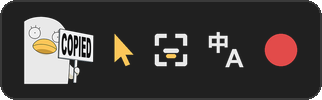
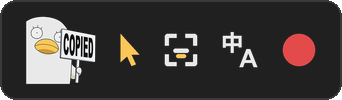
悬浮条图标间距从 10 加到 12

diff --git a/subsnap/bar.py b/subsnap/bar.py
@@ -146,7 +146,7 @@ class Bar:
 
         # 从左到右：伊丽莎白、四个按钮
         # 每个图形按自己的实际宽度裁掉空白、两边各留 pad：相邻图形之间看起来的距离都是 2*pad
-        self.pad = round(5 * self.scale)
+        self.pad = round(6 * self.scale)  # 相邻图形间距 12（Kr 2026-11-18 从 10 加到 12）
         self.vpad = round(3 * self.scale)
 
         def photo(pil):
